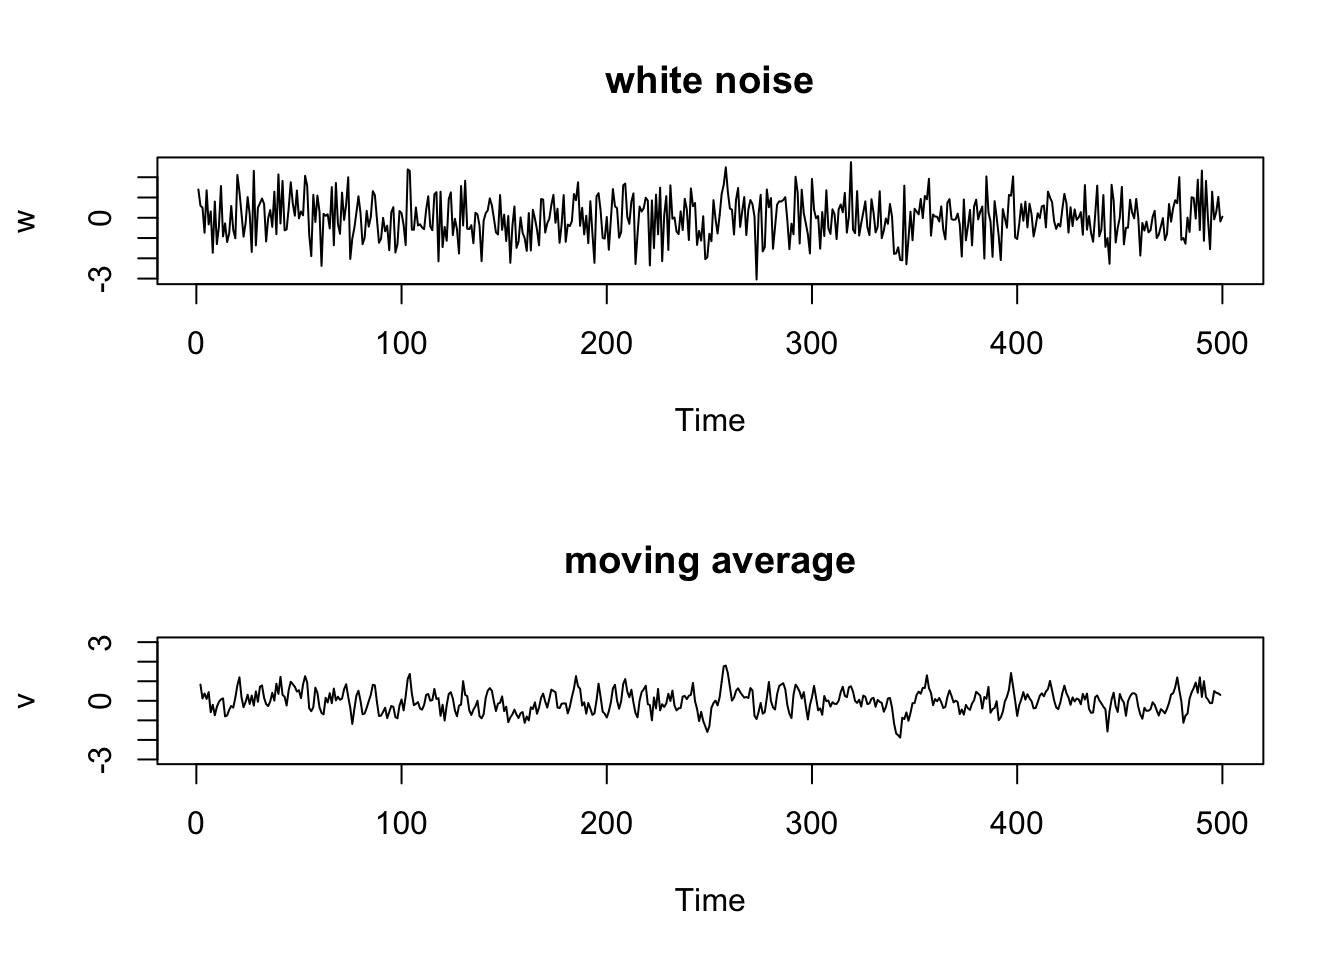
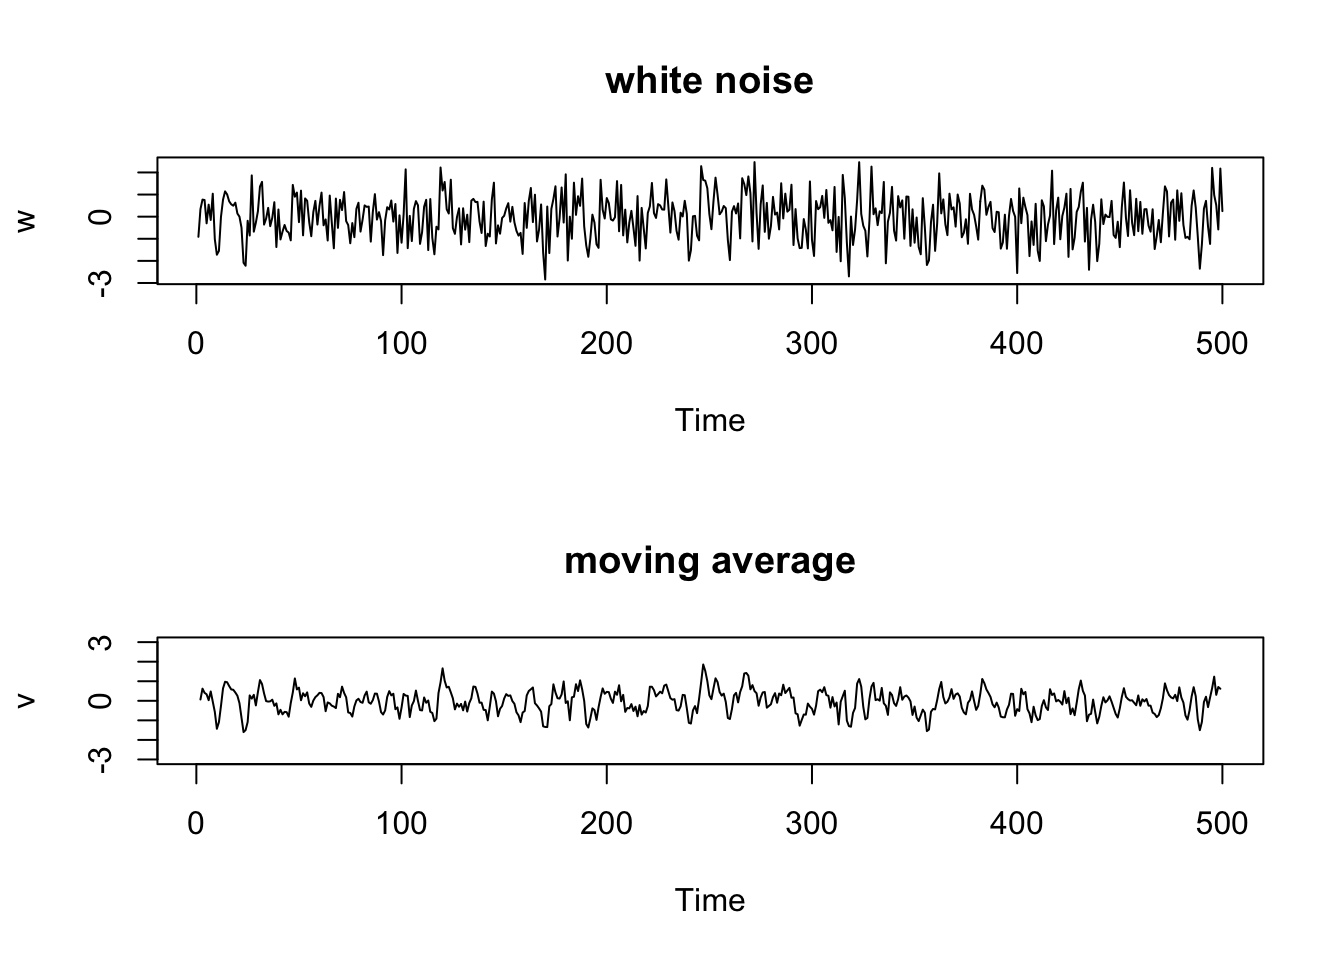
update

diff --git a/docs/Topic1.html b/docs/Topic1.html
@@ -494,10 +494,7 @@ server &lt;- function(input, output, session) {
          xlab = "", ylab = expression(Y[t]),
          bty = "l", xaxt = "n")
     abline(h = 0, col = RULE, lwd = 0.9)
-  },
-  bg = BG,
-  width  = function() { w &lt;- session$clientData$output_upper_plot_width;  if (is.null(w) || w &lt; 1) 700 else w },
-  height = function() { h &lt;- session$clientData$output_upper_plot_height; if (is.null(h) || h &lt; 1) 230 else h })
+  }, bg = BG)
 
   output$lower_plot &lt;- renderPlot({
     s     &lt;- series()
@@ -513,10 +510,7 @@ server &lt;- function(input, output, session) {
          xlab = expression(t), ylab = expression(Y[t]),
          bty = "l")
     abline(h = 0, col = RULE, lwd = 0.9)
-  },
-  bg = BG,
-  width  = function() { w &lt;- session$clientData$output_lower_plot_width;  if (is.null(w) || w &lt; 1) 700 else w },
-  height = function() { h &lt;- session$clientData$output_lower_plot_height; if (is.null(h) || h &lt; 1) 230 else h })
+  }, bg = BG)
 }
 
 shinyApp(ui, server)</code></pre>